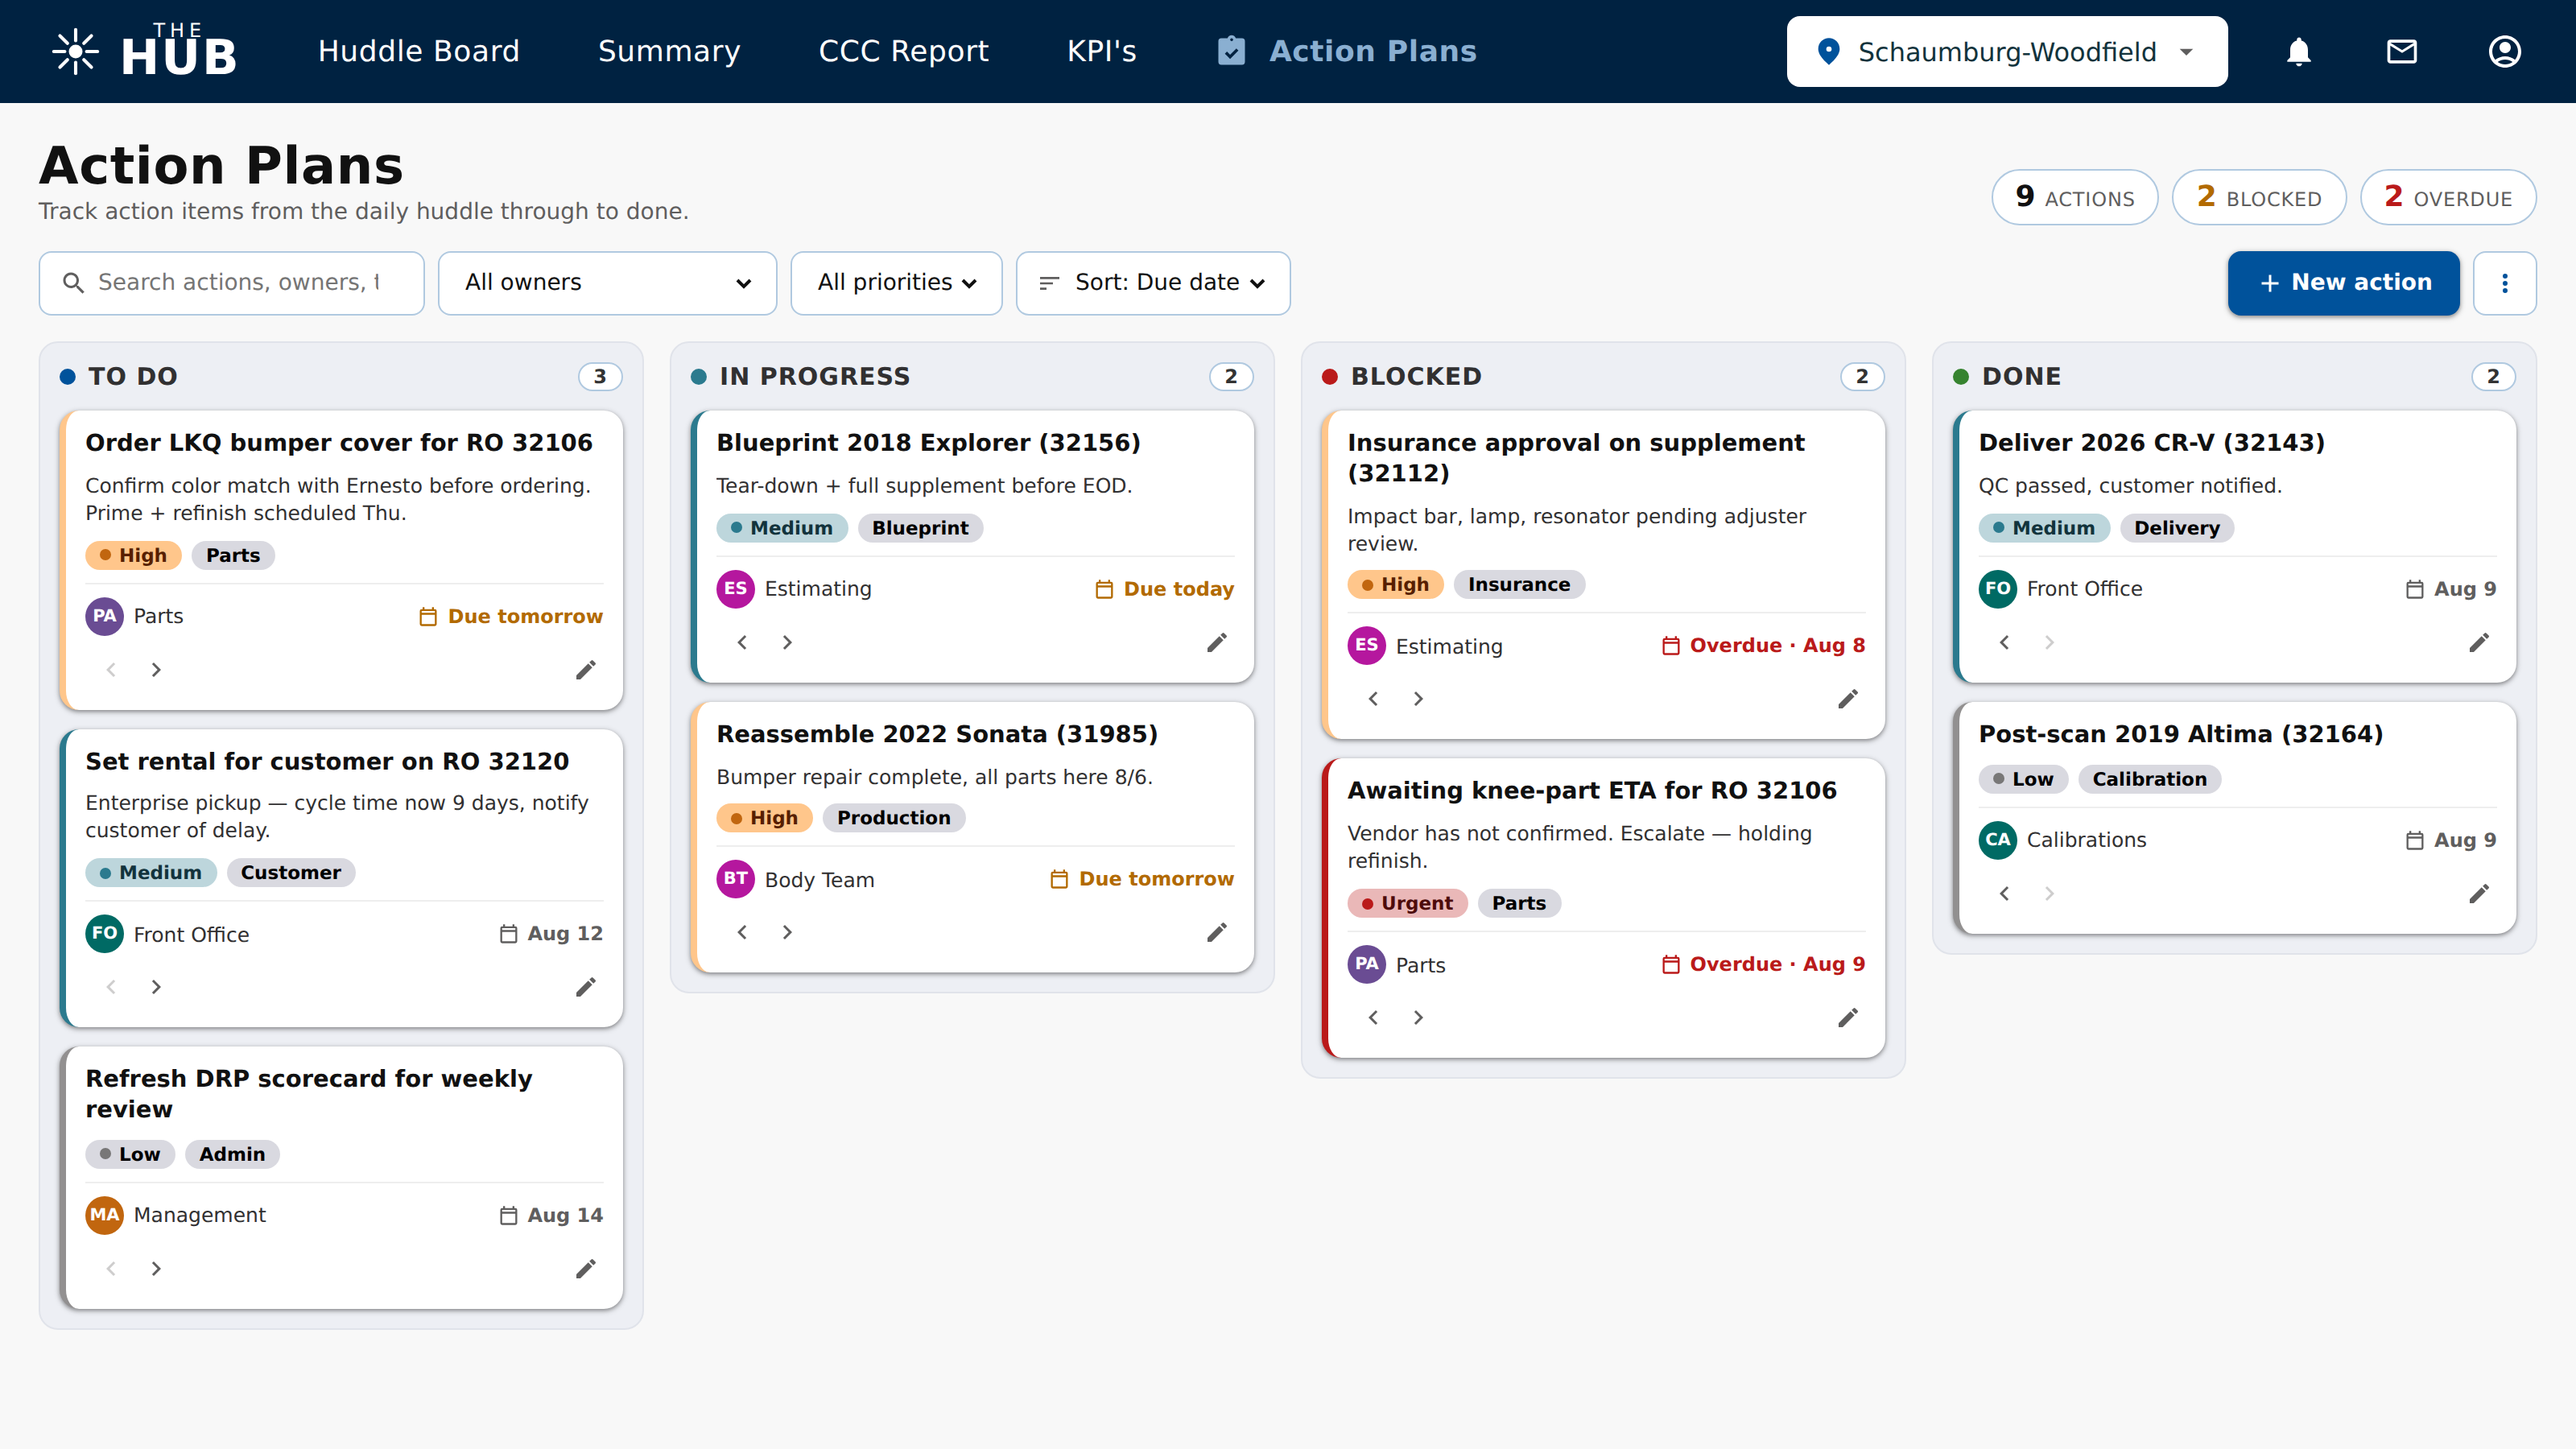
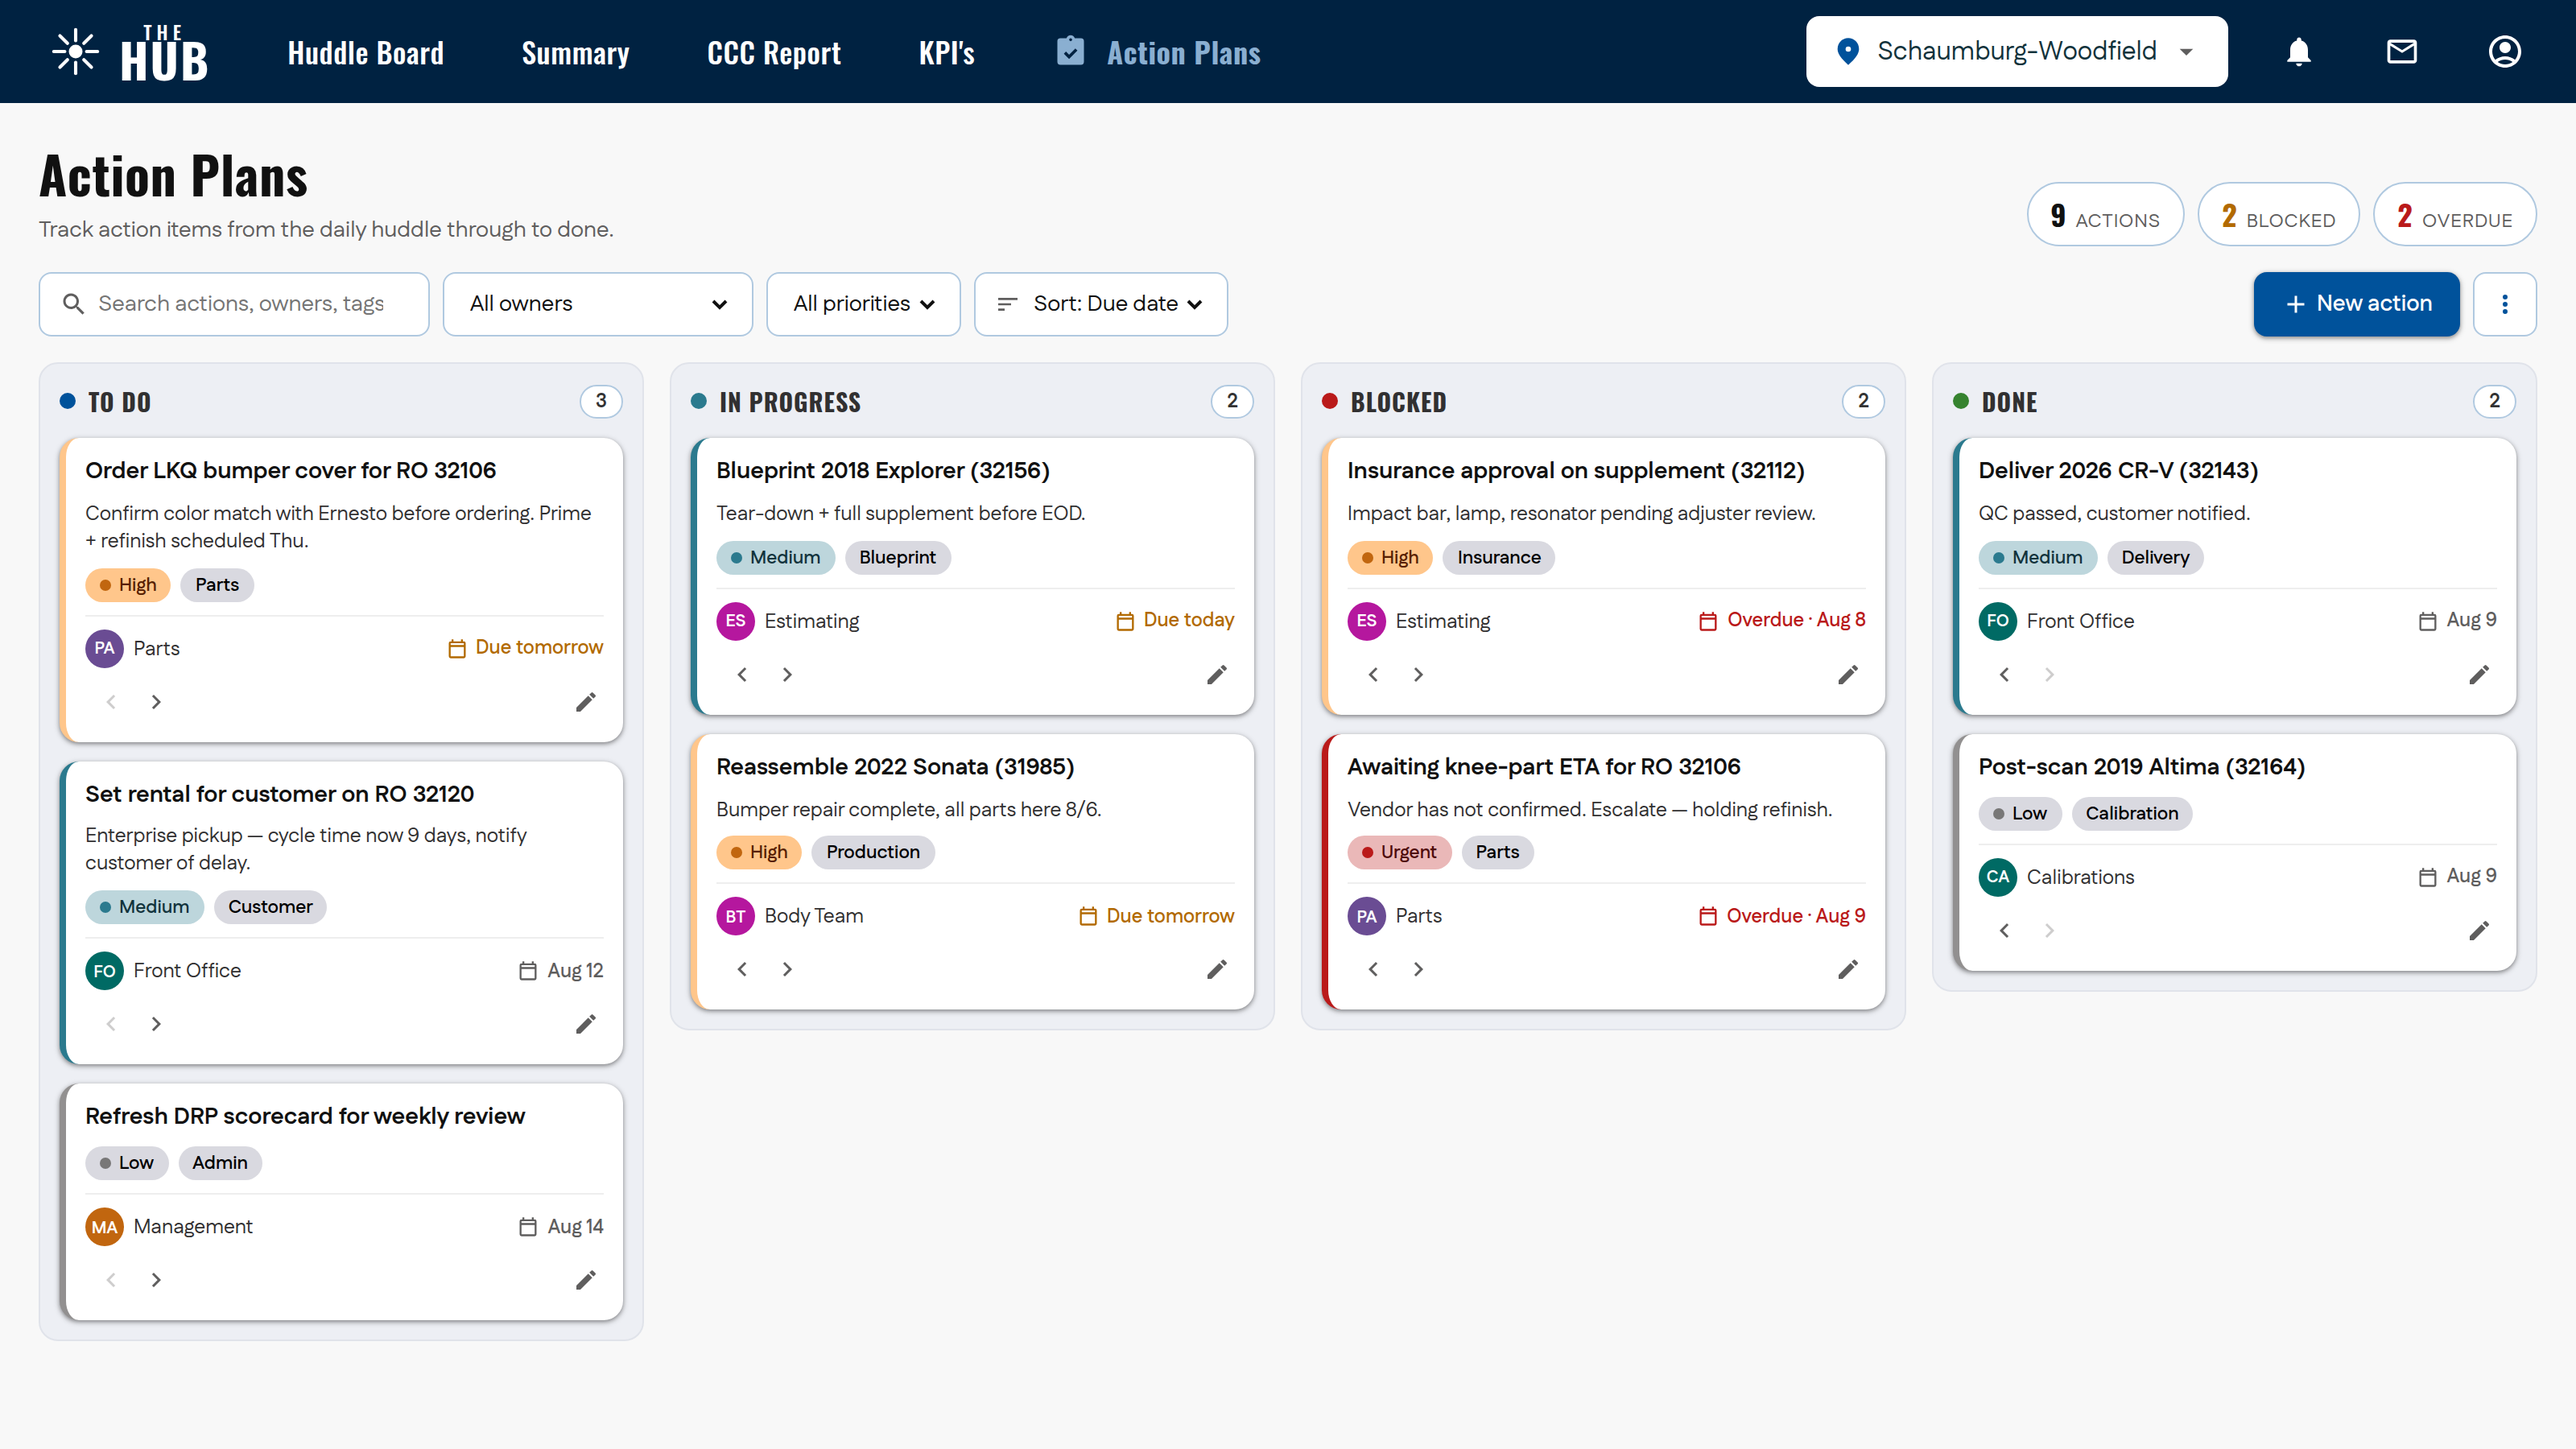
Pin light color-scheme for native controls; refresh preview
- styles.css: set color-scheme: light on :root so the date picker and
  selects render light regardless of the host/OS theme (The Hub is a
  light UI).
- assets/preview.png: regenerate with the embedded Oswald/Fustat faces.

Claude-Session: https://claude.ai/code/session_013BSpAv4JN11AdbKWqu4hxe

diff --git a/assets/styles.css b/assets/styles.css
@@ -73,6 +73,10 @@
   --nav-height: 64px;
   --shadow-1: 0 1px 2px #0000004d, 0 1px 3px 1px #00000026;
   --shadow-2: 0 4px 8px #00000026, 0 2px 4px #0000001f;
+
+  /* The Hub is a light UI; keep native controls (date picker, selects) light
+     regardless of the host/OS theme. */
+  color-scheme: light;
 }
 
 * { box-sizing: border-box; }
